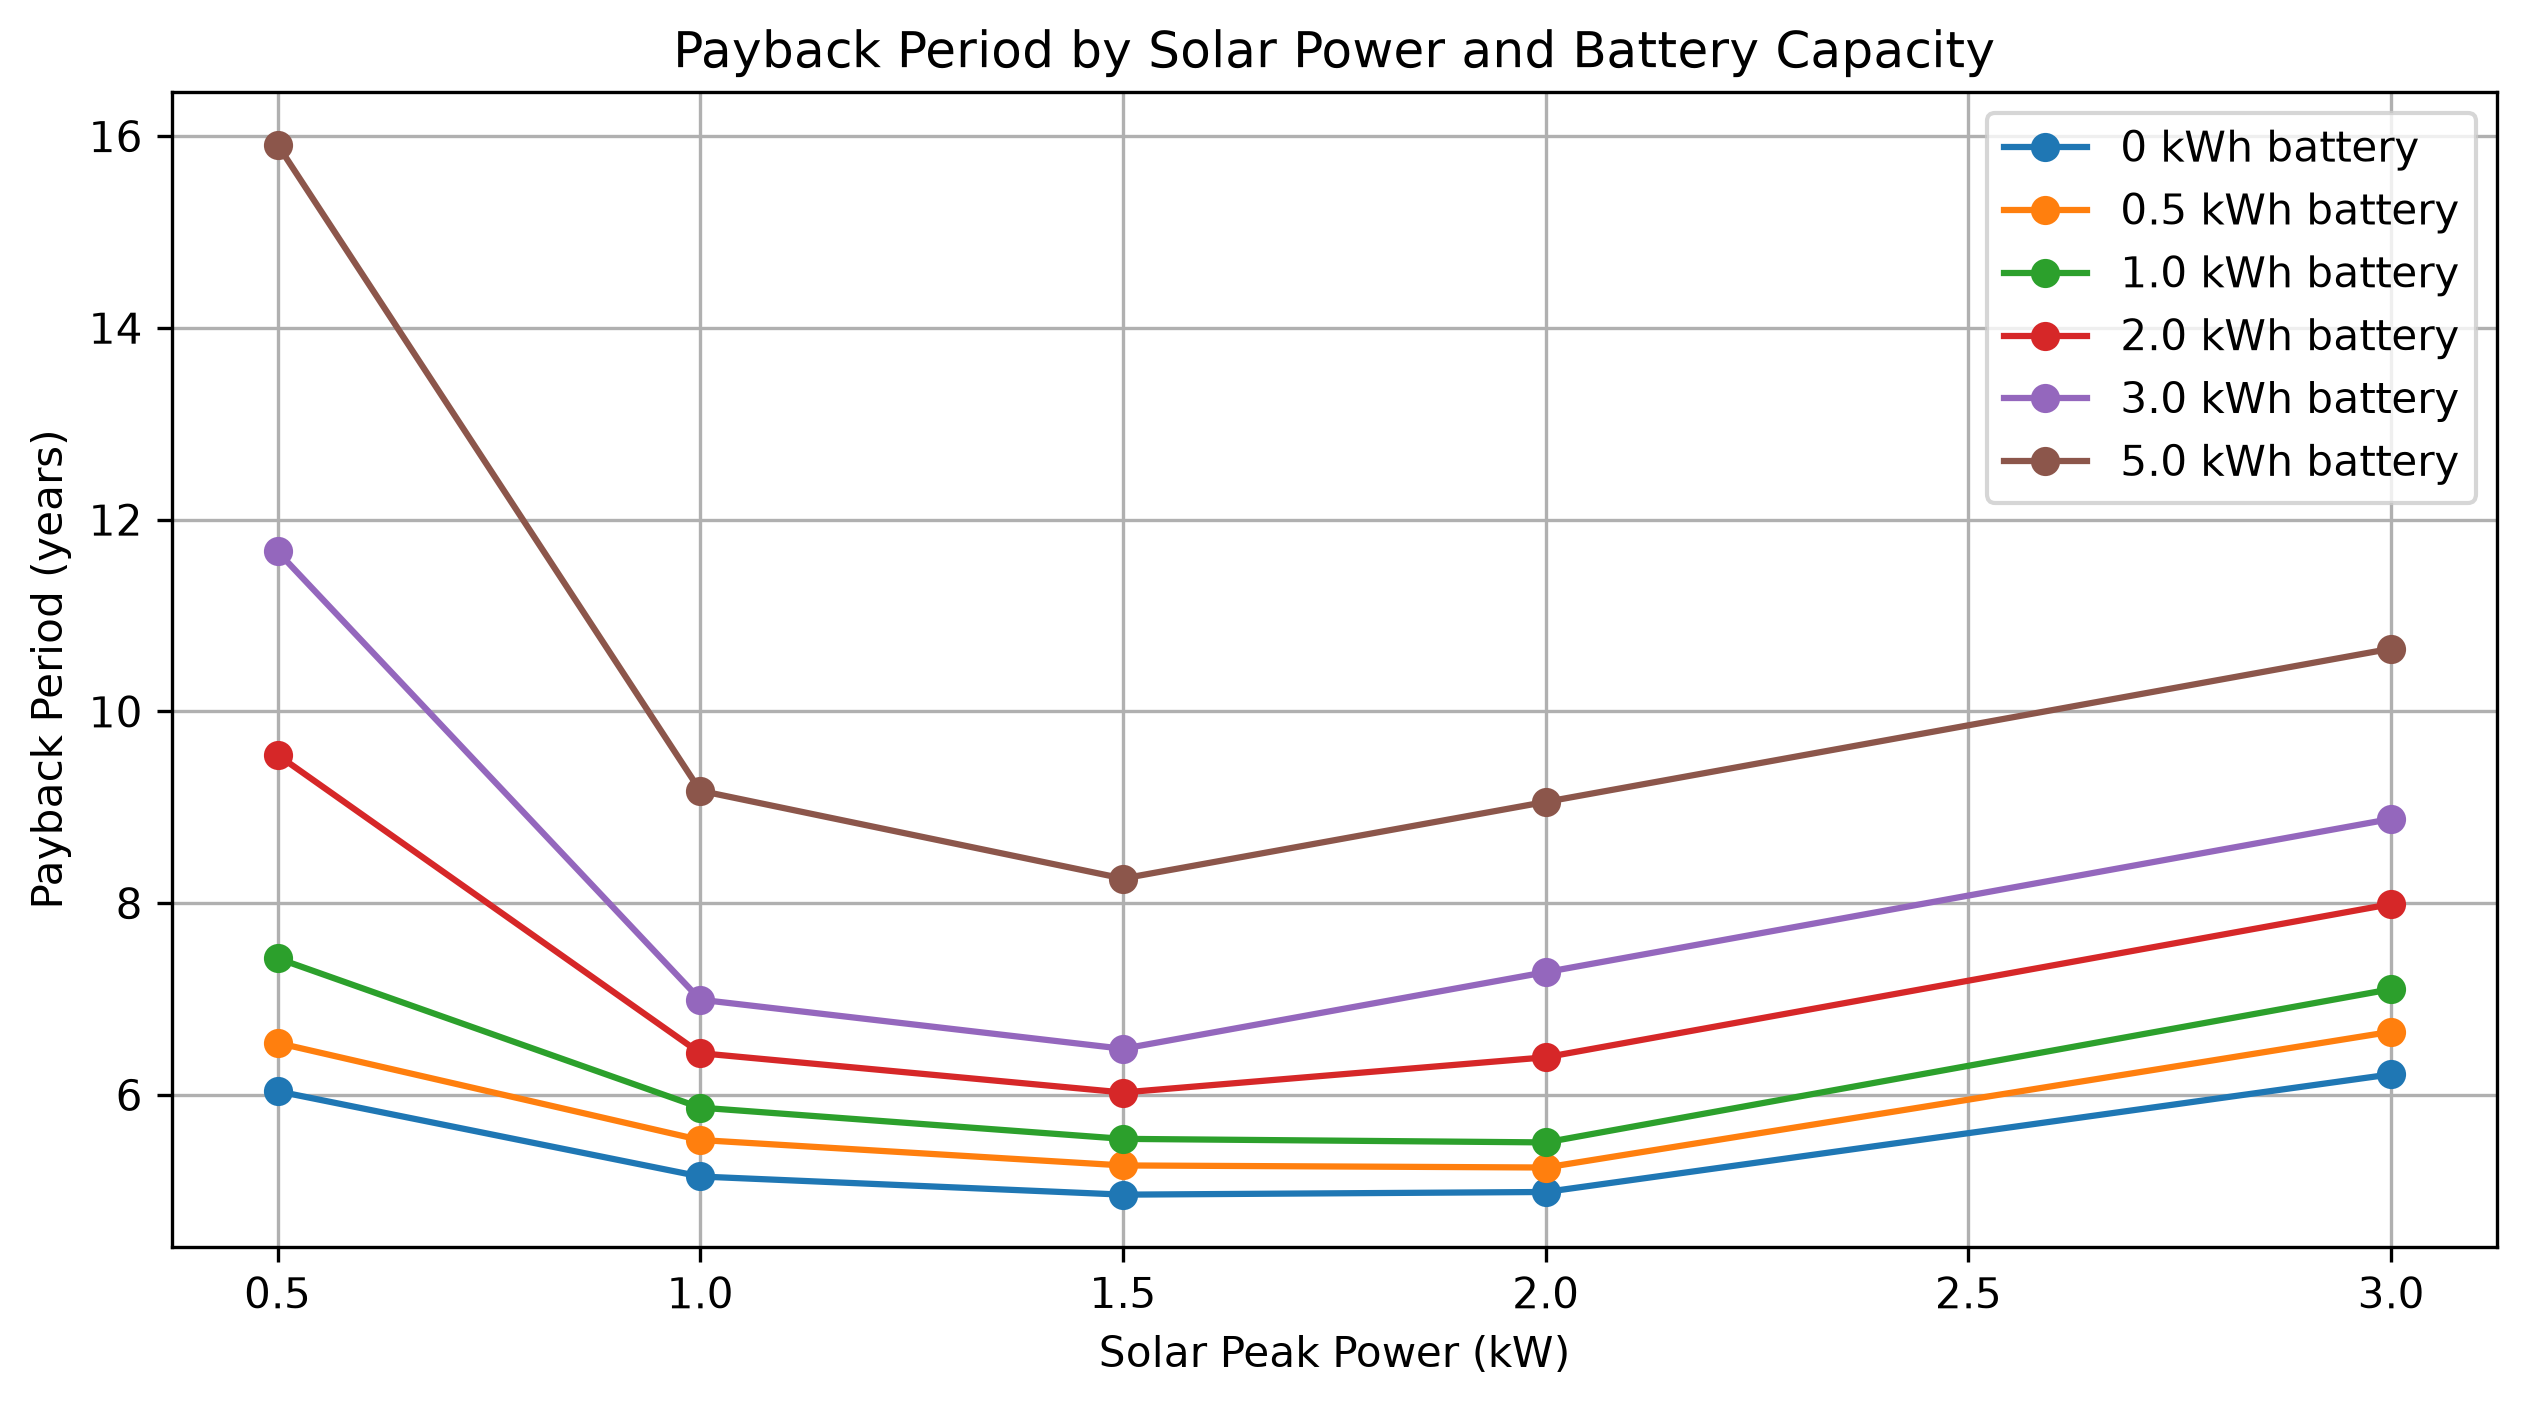
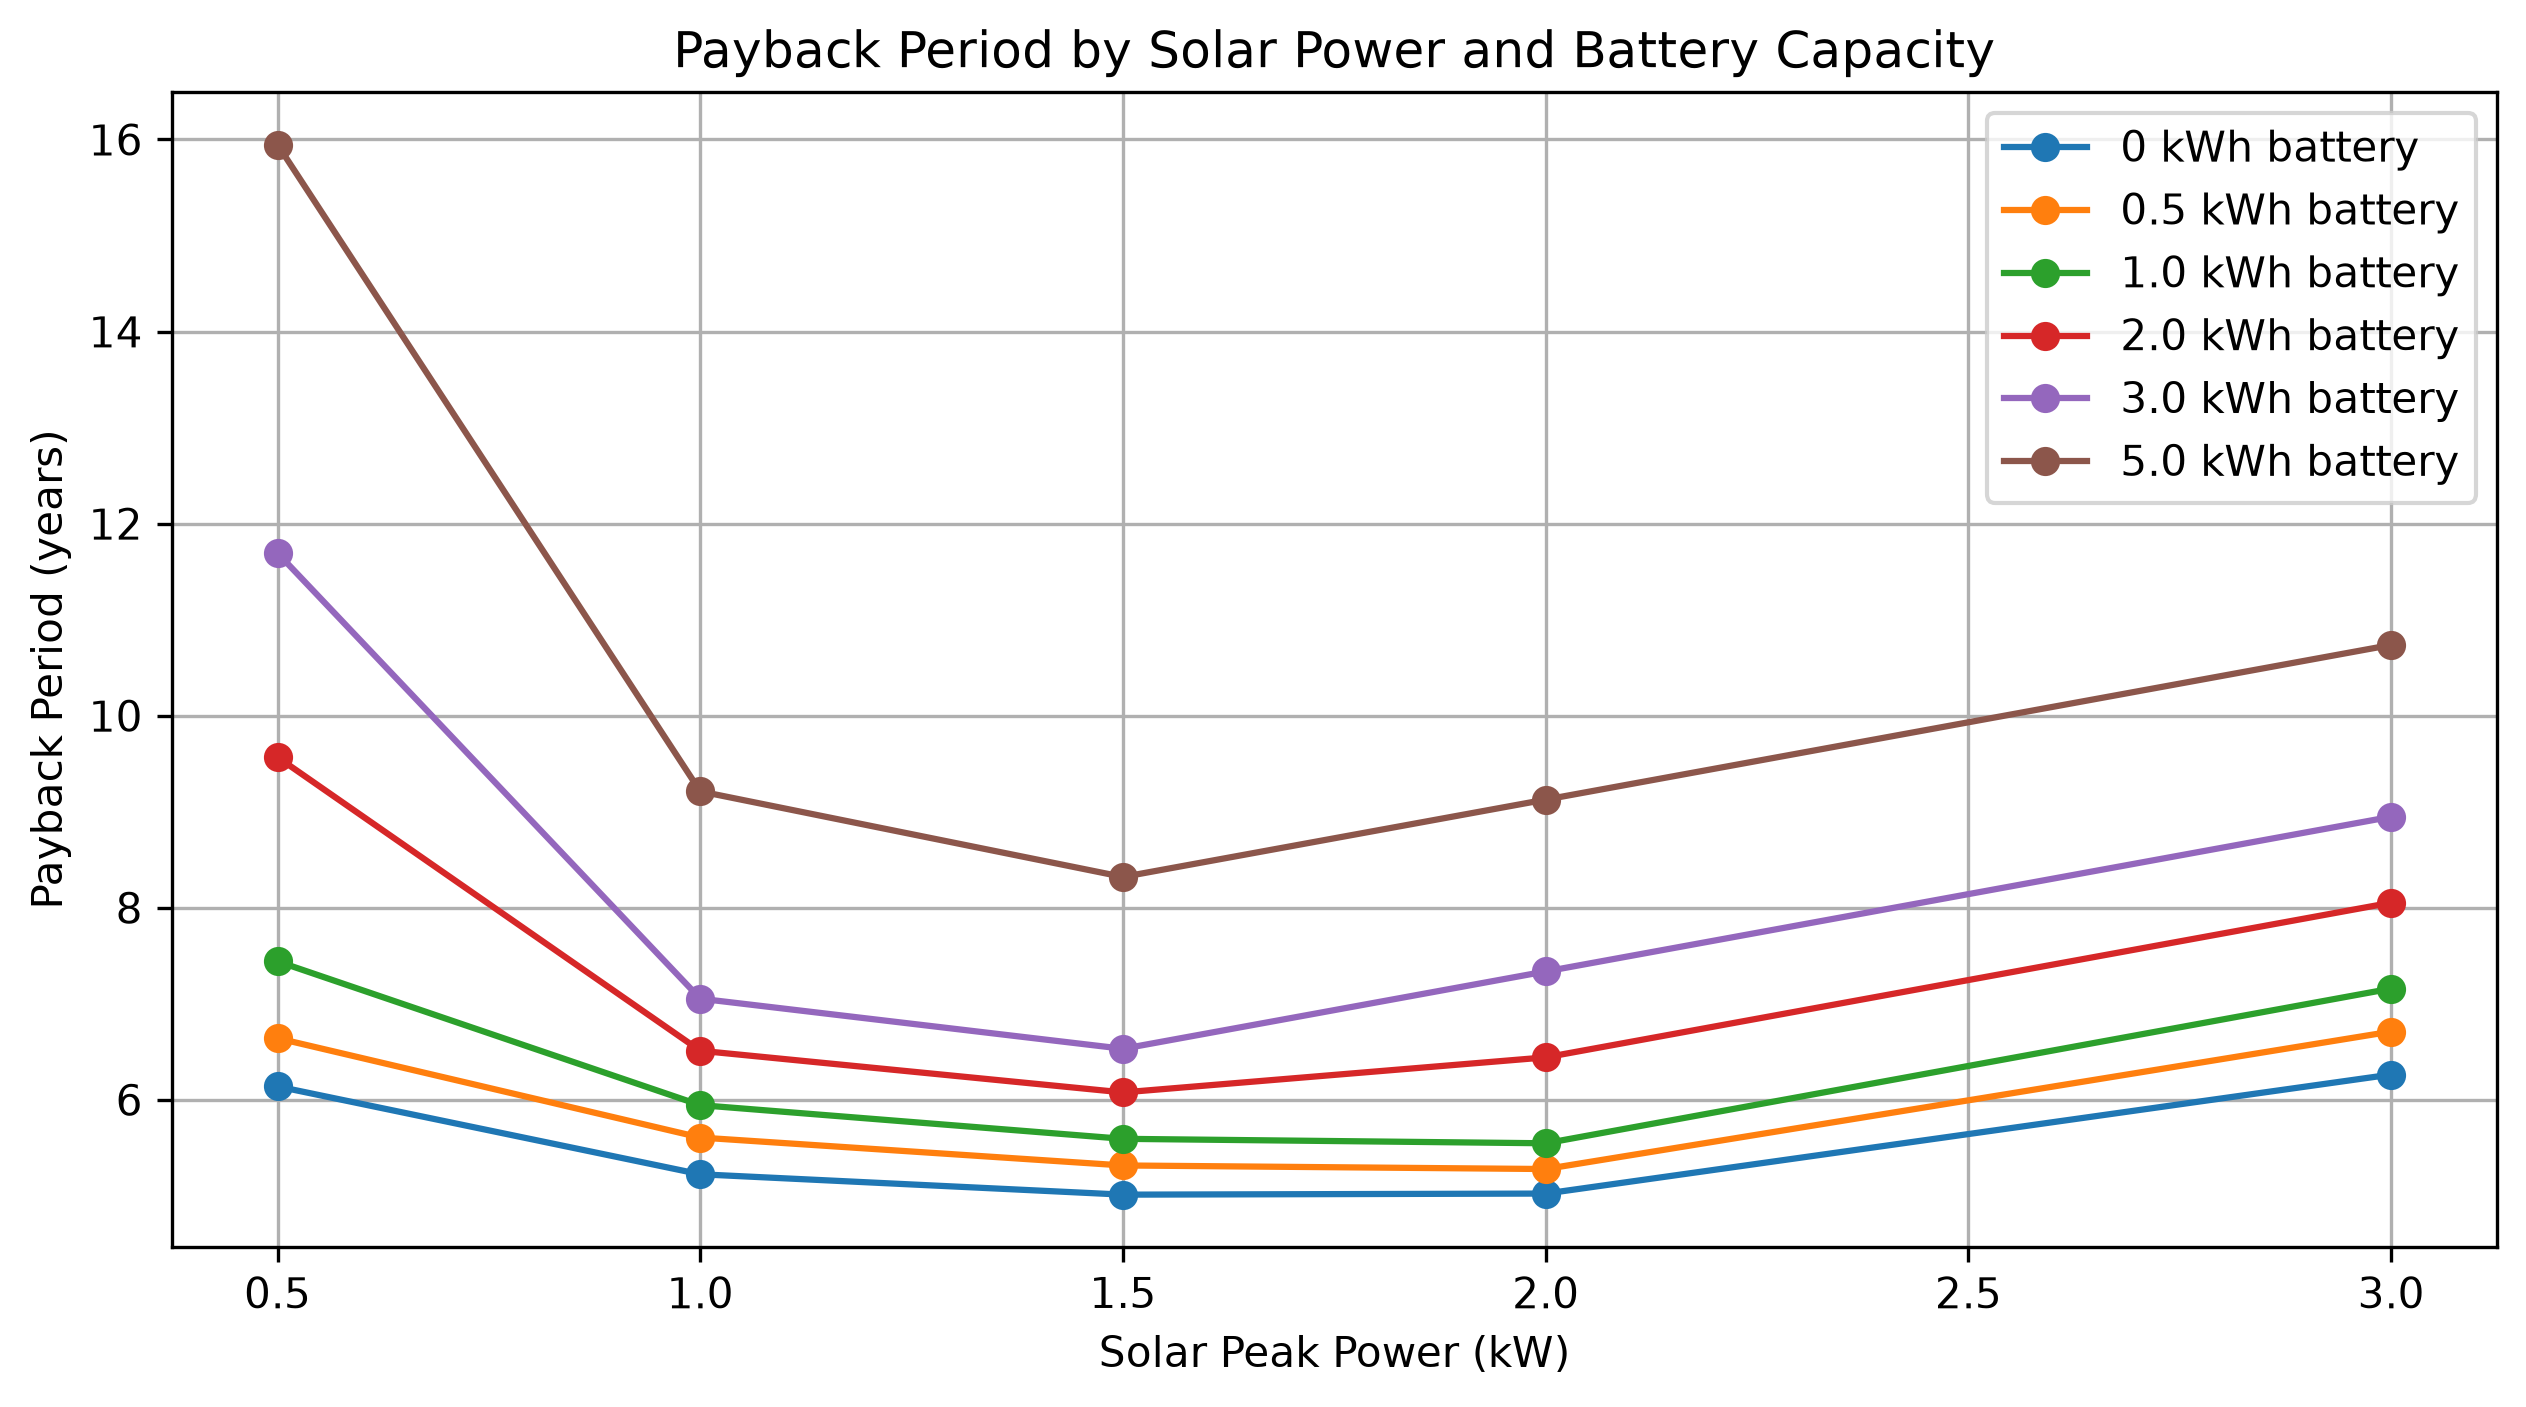
Add self-sufficiency grid search plot

diff --git a/src/visualization.py b/src/visualization.py
@@ -26,3 +26,28 @@ def plot_payback_by_solar_and_battery(
     plt.legend()
 
     plt.savefig(output_path, dpi=300, bbox_inches="tight")
+
+def plot_self_sufficiency_by_solar_and_battery(
+    df: pd.DataFrame,
+    battery_capacities_kwh: list[float],
+    output_path: str
+) -> None:
+    plt.figure(figsize=(10, 5))
+
+    for battery_capacity_kwh in battery_capacities_kwh:
+        battery_df = df[df["battery_capacity_kwh"] == battery_capacity_kwh]
+
+        plt.plot(
+            battery_df["solar_peak_power_kw"],
+            battery_df["self_sufficiency"] * 100,
+            marker="o",
+            label=f"{battery_capacity_kwh} kWh battery"
+        )
+
+    plt.title("Self-Sufficiency by Solar Power and Battery Capacity")
+    plt.xlabel("Solar Peak Power (kW)")
+    plt.ylabel("Self-Sufficiency (%)")
+    plt.grid(True)
+    plt.legend()
+
+    plt.savefig(output_path, dpi=300, bbox_inches="tight")

diff --git a/src/main.py b/src/main.py
@@ -13,7 +13,10 @@ from optimization import (
     build_best_scenarios_dataframe
 )
 
-from visualization import plot_payback_by_solar_and_battery
+from visualization import (
+    plot_payback_by_solar_and_battery,
+    plot_self_sufficiency_by_solar_and_battery
+)
 
 def ensure_output_directories() -> None:
     os.makedirs("reports", exist_ok=True)
@@ -105,6 +108,8 @@ def main() -> None:
     print(f"Results saved to: {results_output_path}")
     print(f"Summary saved to: {summary_output_path}")
     print(f"Best scenarios saved to: {best_scenarios_output_path}")
+    print(f"Payback plot saved to: {config.PAYBACK_PLOT_PATH}")
+    print(f"Self-sufficiency plot saved to: {config.SELF_SUFFICIENCY_PLOT_PATH}")
 
     print_scenario_summary(
         "Best scenario by payback",
@@ -125,6 +130,12 @@ def main() -> None:
         results_df,
         battery_capacities_kwh,
         config.PAYBACK_PLOT_PATH    
+    )
+
+    plot_self_sufficiency_by_solar_and_battery(
+        results_df,
+        battery_capacities_kwh,
+        config.SELF_SUFFICIENCY_PLOT_PATH
     )
 
 

diff --git a/src/config.py b/src/config.py
@@ -5,7 +5,9 @@ CONSUMPTION_DATA_PATH = "data/simulated/synthetic_consumption_30_days.csv"
 GRID_SEARCH_RESULTS_PATH = "reports/grid_search_results.csv"
 BEST_SCENARIOS_PATH = "reports/best_scenarios.csv"
 SUMMARY_REPORT_PATH = "reports/summary.txt"
+
 PAYBACK_PLOT_PATH = "images/main_payback_grid_search.png"
+SELF_SUFFICIENCY_PLOT_PATH = "images/main_self_sufficency_grid_search.png"
 
 # Simulation settings
 SIMULATION_DAYS = 30